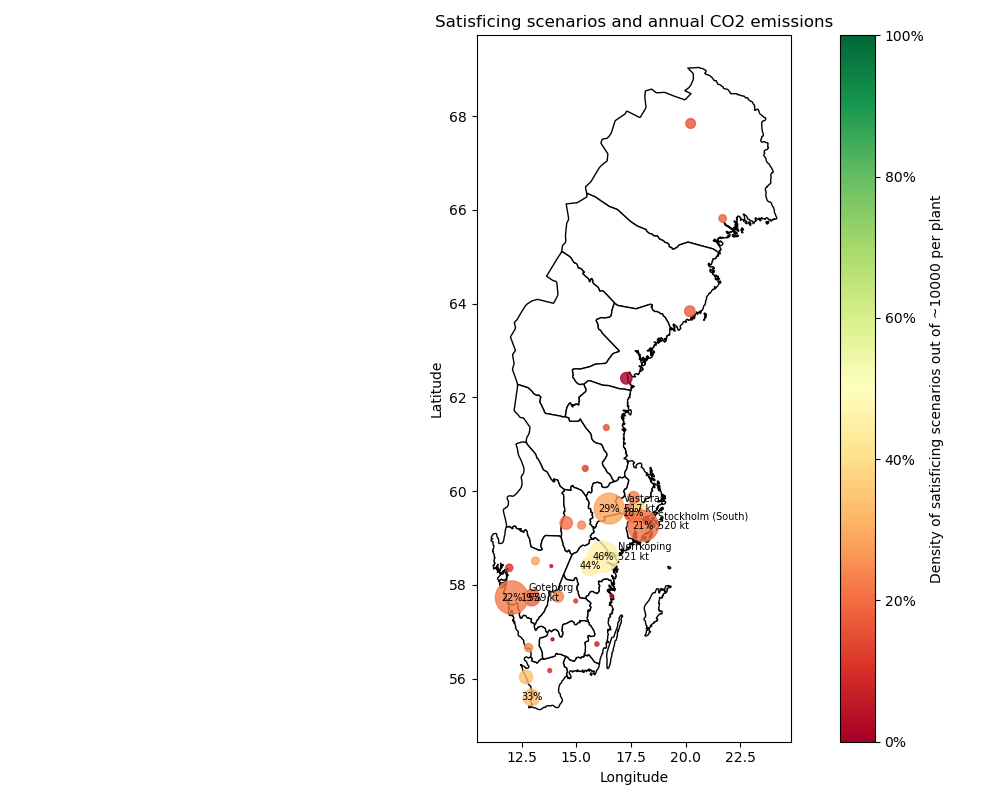
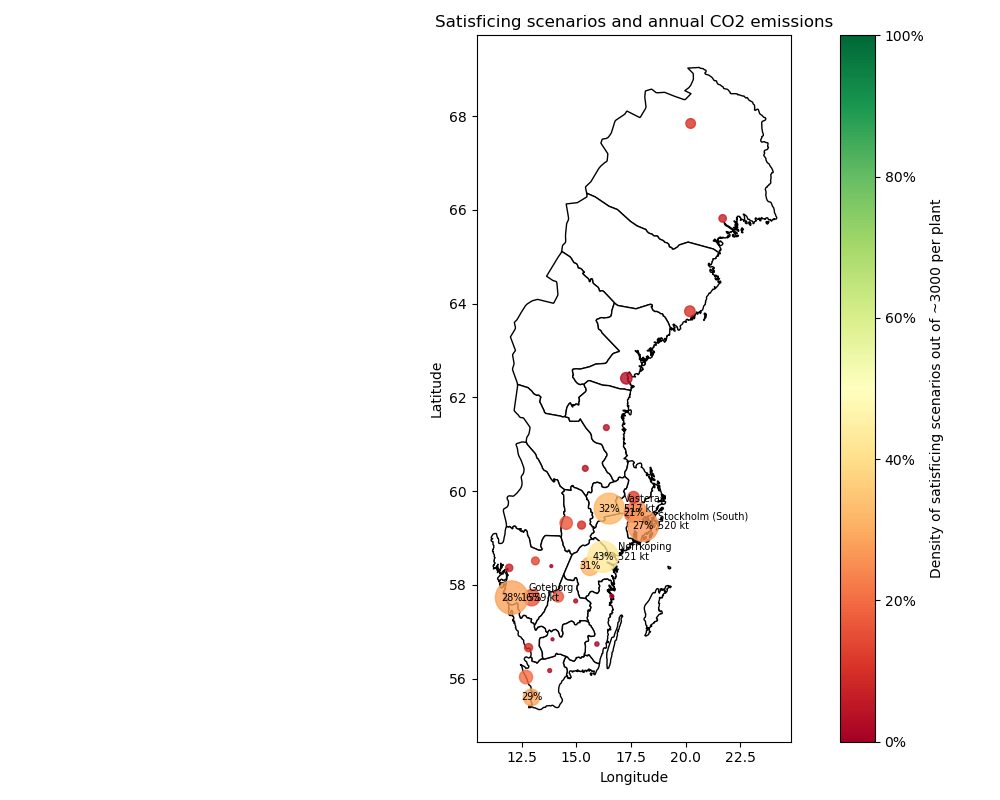
SD works for new CHP and W2E :)

diff --git a/scenario_discovery.py b/scenario_discovery.py
@@ -3,11 +3,11 @@ import pandas as pd
 import matplotlib.pyplot as plt
 
 # Read data
-chp_experiments = pd.read_csv("CHP experiments/all_experiments.csv",delimiter=",", encoding='utf-8')
-chp_outcomes = pd.read_csv("CHP experiments/all_outcomes.csv", delimiter=",", encoding='utf-8')
+# chp_experiments = pd.read_csv("CHP experiments/all_experiments.csv",delimiter=",", encoding='utf-8')
+# chp_outcomes = pd.read_csv("CHP experiments/all_outcomes.csv", delimiter=",", encoding='utf-8')
 
-# chp_experiments = pd.read_csv("WASTE experiments/all_experiments.csv",delimiter=",", encoding='utf-8')  #NOTE: SELECT WASTE OR CHP?
-# chp_outcomes = pd.read_csv("WASTE experiments/all_outcomes.csv", delimiter=",", encoding='utf-8')
+chp_experiments = pd.read_csv("WASTE experiments/all_experiments.csv",delimiter=",", encoding='utf-8')  #NOTE: SELECT WASTE OR CHP?
+chp_outcomes = pd.read_csv("WASTE experiments/all_outcomes.csv", delimiter=",", encoding='utf-8')
 
 pulp_experiments = pd.read_csv("PULP experiments/all_experiments.csv",delimiter=",", encoding='utf-8')
 pulp_outcomes = pd.read_csv("PULP experiments/all_outcomes.csv", delimiter=",", encoding='utf-8')
@@ -19,36 +19,37 @@ pulp_outcomes = pd.read_csv("PULP experiments/all_outcomes.csv", delimiter=",", 
 # chp_outcomes = chp_outcomes[ (chp_outcomes["Name"] == "Igelsta KVV") ].reset_index(drop=True)
 
 # # If you want only zero biomass scenarios
-# zero_biomass_boolean = (pulp_experiments["BarkIncrease"] == 0)
+# zero_biomass_boolean = (chp_experiments["duration_increase"] == 0)
 # if True:
-#     pulp_experiments = pulp_experiments[zero_biomass_boolean].reset_index(drop=True)
-#     pulp_outcomes = pulp_outcomes[zero_biomass_boolean].reset_index(drop=True)
+#     chp_experiments = chp_experiments[zero_biomass_boolean].reset_index(drop=True)
+#     chp_outcomes = chp_outcomes[zero_biomass_boolean].reset_index(drop=True)
 
 #Figure out what plants have above 300 kt/yr
 grouped = chp_outcomes.groupby('Name')
 gross_means = grouped['gross'].mean().sort_values()
-high_gross_names = gross_means[(gross_means < 200)].index.tolist()
-# high_gross_names = gross_means[(gross_means < 300) & (gross_means > 200)].index.tolist()
+# high_gross_names = gross_means[(gross_means > 350)].index.tolist()
+high_gross_names = gross_means[(gross_means < 150)].index.tolist()
+# high_gross_names = gross_means[(gross_means < 350) & (gross_means > 150)].index.tolist()
 boolean = chp_outcomes['Name'].isin(high_gross_names)
 filtered_outcomes = chp_outcomes[boolean].reset_index(drop=True)
 filtered_experiments = chp_experiments[boolean].reset_index(drop=True)
 
 # Define X and Y
-x = filtered_experiments.iloc[:, 0:27]
-names_list = ['duration_increase', 'heat_pump', 'time']  # This is essentially "constrained PRIM"
+x = filtered_experiments.iloc[:, 0:25]
+names_list = ['celc', 'heat_pump', 'i']  # This is essentially "constrained PRIM"
 x = x[names_list]
-y = (filtered_outcomes["capture_cost"] < 120) & (filtered_outcomes["penalty_services"] < 300) & (filtered_outcomes["penalty_biomass"] < 500)
+y = (filtered_outcomes["capture_cost"] < 120) & (filtered_outcomes["penalty_services"] < 350) & (filtered_outcomes["penalty_biomass"] < 500)
 print(y.sum(),"scenarios are satisficing out of", len(y))
 
-prim_alg = prim.Prim(x, y, threshold=0.5, peel_alpha=0.1) # Threshold was 0.8 before (Kwakkel) #NOTE: To avoid deprecated error, I replaced line 1506 in prim.py with: np.int(paste_value) => int(paste_value)
+prim_alg = prim.Prim(x, y, threshold=0.4, peel_alpha=0.1) # Threshold was 0.8 before (Kwakkel) #NOTE: To avoid deprecated error, I replaced line 1506 in prim.py with: np.int(paste_value) => int(paste_value)
 box1 = prim_alg.find_box()
 
 box1.show_tradeoff()        # Pareto tradeoff 
 box1.write_ppt_to_stdout()  # Prints trajectory/tradeoff, useful!
 
-box1.select(14)
+box1.select(22)
 # box1.inspect_tradeoff()     # Print tradeoff to terminal, not useful?
-prim_alg.show_boxes(14) 
-box1.inspect(14)
+prim_alg.show_boxes(22) 
+box1.inspect(22)
 
 plt.show()

diff --git a/chp_plotting.py b/chp_plotting.py
@@ -220,7 +220,7 @@ categorical_restrictions = {
 }
 satisficing_thresholds_1 = {
     'capture_cost': 120,
-    'penalty_services': 300,
+    'penalty_services': 350,
     'penalty_biomass': 500
 }
 # satisficing_thresholds_2 = {
@@ -261,40 +261,40 @@ plot_everything(chp_experiments, chp_outcomes, chp_coordinates, numerical_restri
 # plot_everything(pulp_experiments, pulp_outcomes, pulp_coordinates, numerical_restrictions, categorical_restrictions, satisficing_thresholds_3)
 
 numerical_restrictions_1 = {
-    # 'COP': (3.0, 3.80),
+    'COP': (3.26, 3.80),
     # # 'Tlow': (43, 50.7),
     # # 'rate': (0.78, 0.893),
     # # 'i': (0.05, 0.10),
-    'time': (5375, 5999),
+    'time': (4841, 5999),
     # "duration_increase": (None, 1001)
 }
 categorical_restrictions_1 = {
     "heat_pump": [True],
-    "duration_increase": [1000]
+    "duration_increase": [0]
 }
 numerical_restrictions_2 = {
     # 'COP': (2.45, 3.80),
-    # 'Tsupp': (83, 100),
+    'celc': (23, 65),
     # 'rate': (0.78, 0.893),
-    # 'i': (0.05, 0.10),
-    'time': (5227, 5999),
+    # 'i': (0.05, 0.077),
+    'time': (5381, 5999),
     # "duration_increase": (None, 1001)
 }
 categorical_restrictions_2 = {
     "heat_pump": [True],
-    "duration_increase": [1000]
+    "duration_increase": [0]
 }
 numerical_restrictions_3 = {
     # 'COP': (2.45, 3.80),
     # 'Tsupp': (83, 100),
     # 'rate': (0.78, 0.893),
-    # 'i': (0.05, 0.10),
-    'time': (5373, 5999),
+    'i': (0.05, 0.066),
+    'time': (4986, 5999),
     # "duration_increase": (None, 1001)
 }
 categorical_restrictions_3 = {
     "heat_pump": [True],
-    "duration_increase": [1000]
+    "duration_increase": [0]
 }
 
 subsets = [[filtered_experiments_high,filtered_outcomes_high,numerical_restrictions_1,categorical_restrictions_1],

diff --git a/waste_plotting.py b/waste_plotting.py
@@ -227,8 +227,8 @@ categorical_restrictions = {
 #     'penalty_biomass': 500
 # }
 satisficing_thresholds_2 = {
-    'capture_cost': 100,
-    'penalty_services': 300,
+    'capture_cost': 120,
+    'penalty_services': 350,
     'penalty_biomass': 1
 }
 # satisficing_thresholds_3 = {
@@ -264,39 +264,39 @@ filtered_experiments_low = chp_experiments[boolean].reset_index(drop=True)
 # plot_everything(pulp_experiments, pulp_outcomes, pulp_coordinates, numerical_restrictions, categorical_restrictions, satisficing_thresholds_3)
 
 numerical_restrictions_1 = {
-    'COP': (3.28, 3.80),
-    'celc': (20, 90),
+    # 'COP': (3, 3.80),
+    # 'celc': (20, 80),
     # # 'rate': (0.78, 0.893),
     # # 'i': (0.05, 0.10),
     # 'time': (4400, 5999),
     # "duration_increase": (None, 1001)
 }
 categorical_restrictions_1 = {
-    "heat_pump": [True],
+    # "heat_pump": [True],
     # "duration_increase": [0]
 }
 numerical_restrictions_2 = {
-    'COP': (3, 3.80),
-    'celc': (20, 85),
+    # 'COP': (3, 3.80),
+    # 'celc': (20, 74),
     # 'rate': (0.78, 0.893),
-    # 'i': (0.05, 0.10),
+    # 'i': (0.05, 0.08),
     # 'time': (4822, 5999),
     # "duration_increase": (None, 1001)
 }
 categorical_restrictions_2 = {
-    "heat_pump": [True],
+    # "heat_pump": [True],
     # "duration_increase": [0]
 }
 numerical_restrictions_3 = {
-    'COP': (2.6, 3.80),
+    # 'celc': (20, 73),
     # 'Tsupp': (83, 100),
     # 'rate': (0.78, 0.893),
-    'i': (0.05, 0.10),
+    # 'i': (0.05, 0.07),
     # 'time': (4200, 5999),
     # "duration_increase": (None, 1001)
 }
 categorical_restrictions_3 = {
-    "heat_pump": [True],
+    # "heat_pump": [True],
     # "duration_increase": [0]
 }
 

diff --git a/WASTE experiments/waste_controller.py b/WASTE experiments/waste_controller.py
@@ -19,7 +19,7 @@ from ema_workbench import (
 
 # -------------------------------------- Read data and initiate a plant ----------------------------------
 plants_df = pd.read_csv("WASTE data all.csv",delimiter=";")
-plants_df = plants_df.iloc[0].to_frame().T # This row makes us only iterate over the 1st plant
+# plants_df = plants_df.iloc[0].to_frame().T # This row makes us only iterate over the 1st plant
 all_experiments = pd.DataFrame()
 all_outcomes = pd.DataFrame()
 
@@ -94,8 +94,8 @@ for index, plant_data in plants_df.iterrows():
     ]
 
     ema_logging.log_to_stderr(ema_logging.INFO)
-    n_scenarios = 250
-    n_policies = 40
+    n_scenarios = 150
+    n_policies = 20
 
     results = perform_experiments(model, n_scenarios, n_policies, uncertainty_sampling = Samplers.LHS, lever_sampling = Samplers.LHS)
     experiments, outcomes = results
